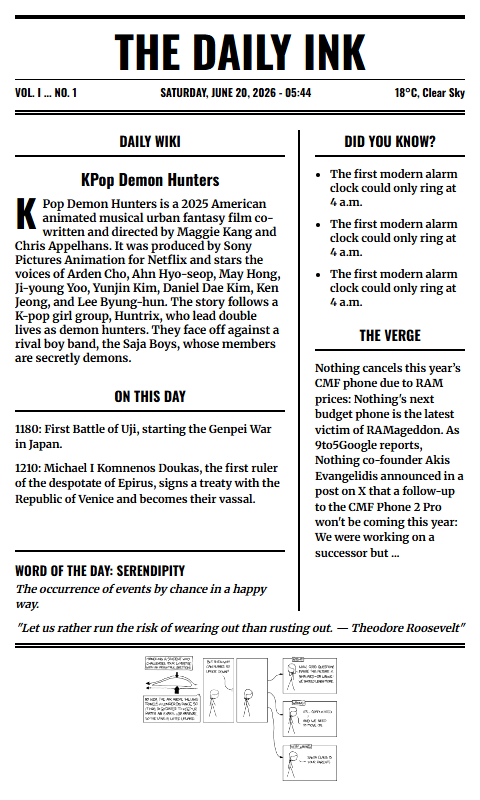
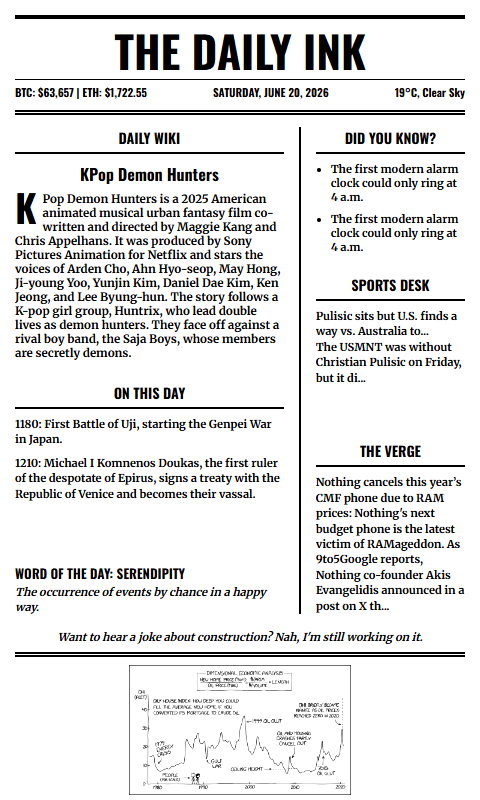
update layout and modularity

diff --git a/templates/layout.html b/templates/layout.html
@@ -3,73 +3,125 @@
 <head>
     <link href="https://fonts.googleapis.com/css2?family=Merriweather:wght@700&family=Oswald:wght@700&display=swap" rel="stylesheet">
     <style>
-        body { font-family: 'Merriweather', serif; margin: 0; padding: 0; width: 480px; height: 800px; background: white; display: flex; justify-content: center; }
-        .newspaper-wrapper { width: 450px; padding: 15px 0; box-sizing: border-box; display: flex; flex-direction: column; }
-        .header { text-align: center; border-top: 4px solid black; border-bottom: 5px double black; padding: 10px 0; margin-bottom: 15px; }
-        .title { font-family: 'Oswald', sans-serif; font-size: 44px; text-transform: uppercase; font-weight: 700; line-height: 1; }
-        .meta { font-family: 'Oswald', sans-serif; font-size: 11px; display: flex; justify-content: space-between; border-top: 1px solid black; padding-top: 4px; margin-top: 6px; }
-        .columns { display: flex; gap: 0; height: 490px; overflow: hidden; margin-bottom: 10px; }
-        .col-left { flex: 1.8; border-right: 2px solid black; display: flex; flex-direction: column; justify-content: space-between; padding-right: 13px; }
-        .col-right { flex: 1; padding-left: 15px; }
-        h2 { font-family: 'Oswald', sans-serif; font-size: 14px; border-bottom: 2px solid black; text-transform: uppercase; text-align: center; margin: 0 0 10px 0; padding-bottom: 4px; }
+        body { 
+            font-family: 'Merriweather', 'Georgia', serif; 
+            margin: 0; padding: 0; width: 480px; height: 800px; background: white; 
+            display: flex; justify-content: center; overflow: hidden; 
+        }
+        
+        .newspaper-wrapper { 
+            width: 450px; padding-top: 15px; height: 785px; 
+            display: flex; flex-direction: column; 
+        }
+
+        .middle-section { display: flex; flex-grow: 1; gap: 15px; overflow: hidden; margin-bottom: 8px; }
+        .col-left { flex: 1.8; display: flex; flex-direction: column; gap: 12px; }
+        .col-right { flex: 1; display: flex; flex-direction: column; gap: 12px; }
+        .vertical-line { width: 2px; background-color: black; flex-shrink: 0; }
+
+        /* Block Behaviors */
+        .news-block { display: flex; flex-direction: column; overflow: hidden; }
+        
+        /* OPTION 2: The Automatic Bottom Anchor */
+        /* OPTION 2: The Automatic Bottom Anchor */
+        .news-block:last-child {
+            margin-top: auto; 
+            flex-shrink: 0;
+        }
+
+        /* Text Limiters */
+        .limit-text-long {
+            display: -webkit-box;
+            -webkit-line-clamp: 14; 
+            -webkit-box-orient: vertical;
+            overflow: hidden;
+        }
+        .limit-text-short {
+            display: -webkit-box;
+            -webkit-line-clamp: 8; 
+            -webkit-box-orient: vertical;
+            overflow: hidden;
+        }
+
+        .area-header  { text-align: center; border-top: 4px solid black; border-bottom: 5px double black; padding: 10px 0; margin-bottom: 12px; flex-shrink: 0; }
+        .area-joke    { text-align: center; padding: 8px 0; font-size: 11px; font-style: italic; flex-shrink: 0; }
+        .area-comic   { border-top: 5px double black; padding-top: 8px; height: 135px; display: flex; justify-content: center; overflow: hidden; flex-shrink: 0; }
+        
+        /* Typography */
+        .title { font-family: 'Oswald', 'Impact', sans-serif; font-size: 44px; text-transform: uppercase; font-weight: 700; line-height: 1; margin-bottom: 6px; }
+        .meta { font-family: 'Oswald', 'Arial Narrow', sans-serif; font-size: 11px; display: flex; justify-content: space-between; border-top: 1px solid black; padding-top: 4px; }
+        h2 { font-family: 'Oswald', 'Impact', sans-serif; font-size: 14px; border-bottom: 2px solid black; text-transform: uppercase; text-align: center; margin: 0 0 8px 0; padding-bottom: 4px; }
         ul { padding-left: 15px; margin: 0; }
-        li { margin-bottom: 8px; font-size: 11px; font-weight: 700; font-family: 'Merriweather', serif; }
-        p { margin: 0 0 10px 0; font-family: 'Merriweather', serif; }
-        .dropcap:first-letter { float: left; font-size: 38px; font-family: 'Oswald', sans-serif; padding-right: 6px; line-height: 0.8; }
-        .comic-wrapper { border-top: 5px double black; padding-top: 8px; }
-        .comic-img { width: 100%; height: 125px; object-fit: contain; filter: grayscale(100%) contrast(1.2); }
-        .quote { font-size: 11px; font-style: italic; text-align: center; margin-bottom: 8px; font-family: 'Merriweather', serif; }
-        .news-block { margin-top: 15px; }
-        .news-content { font-family: 'Merriweather', serif; font-weight: 700; font-size: 11px; line-height: 1.4; margin: 0; }
+        li { margin-bottom: 8px; font-size: 11px; font-weight: 700; }
+        p { margin: 0 0 10px 0; font-size: 11px;}
+        .dropcap:first-letter { float: left; font-size: 38px; font-family: 'Oswald', 'Impact', sans-serif; padding-right: 6px; line-height: 0.8; }
+        .news-content { font-weight: 700; font-size: 11px; line-height: 1.4; margin: 0; }
+        .comic-img { max-width: 100%; height: 130px; object-fit: contain; filter: grayscale(100%) contrast(1.2); }
     </style>
 </head>
 <body>
     <div class="newspaper-wrapper">
-        <div class="header">
+        
+        <div class="area-header">
             <div class="title">The Daily Ink</div>
             <div class="meta">
-                <span>VOL. I ... NO. 1</span>
+                <span>BTC: {crypto_btc} | ETH: {crypto_eth}</span>
                 <span>{date}</span>
                 <span>{weather}</span>
             </div>
         </div>
-        <div class="columns">
+
+        <div class="middle-section">
+            
             <div class="col-left">
-                <div>
+                <div class="news-block">
                     <h2>Daily Wiki</h2>
                     <div style="font-weight:700; text-align:center; font-family:'Oswald', sans-serif; margin-bottom:6px;">{wiki_title}</div>
-                    <p class="dropcap" style="font-weight:700; font-size:11.5px;">{wiki_text}</p>
+                    <p class="dropcap limit-text-long" style="font-weight:700; font-size:11.5px;">{wiki_text}</p>
                 </div>
-                <div class="news-block" style="margin-top: 10px; margin-bottom: 10px;">
+                
+                <div class="news-block">
                     <h2>{history_title}</h2>
-                    <div class="news-content">
-                        {history_items}
-                    </div>
+                    <div class="news-content limit-text-short">{history_items}</div>
                 </div>
-                <div style="margin-top: auto; border-top: 2px solid black; padding-top: 8px;">
+
+                <div class="news-block">
                     <div style="font-family:'Oswald', sans-serif; font-size: 13px; font-weight:700; text-transform: uppercase; margin-bottom: 2px;">
                         Word of the Day: {word_name}
                     </div>
-                    <div style="font-size: 11px; font-style: italic; line-height: 1.3;">
-                        {word_def}
-                    </div>
+                    <div style="font-size: 11px; font-style: italic; line-height: 1.3;">{word_def}</div>
                 </div>
             </div>
+
+            <div class="vertical-line"></div>
+
             <div class="col-right">
-                <h2>Did You Know?</h2>
-                <ul>{facts_list}</ul>
+                <div class="news-block">
+                    <h2>Did You Know?</h2>
+                    <ul>{facts_list}</ul>
+                </div>
+                
+                <div class="news-block">
+                    <h2>Sports Desk</h2>
+                    <div class="news-content limit-text-short">{sports_items}</div>
+                </div>
+
                 <div class="news-block">
                     <h2>{news_title}</h2>
-                    <div class="news-content">
-                        {news_text}
-                    </div>
+                    <div class="news-content limit-text-long">{news_text}</div>
                 </div>
             </div>
+
         </div>
-        <div class="quote">"{quote_text}"</div>
-        <div class="comic-wrapper">
+
+        <div class="area-joke">
+            <b>{joke_setup}</b> {joke_punchline}
+        </div>
+        
+        <div class="area-comic">
             <img class="comic-img" src="{comic_url}">
         </div>
+        
     </div>
 </body>
 </html>

diff --git a/generate.py b/generate.py
@@ -5,8 +5,11 @@ from html2image import Html2Image
 
 # Import modular custom sub-packages
 from modules.weather import get_weather
-from modules.news import fetch_wiki_module, fetch_verge_module, fetch_history_module
-from modules.culture import fetch_facts_module, fetch_word_module, fetch_quote_module, fetch_fitting_xkcd
+from modules.news import fetch_wiki_module, fetch_verge_module, fetch_history_module, fetch_sports_module
+from modules.culture import fetch_facts_module, fetch_word_module, fetch_fitting_xkcd, fetch_joke_module, fetch_quote_module
+from modules.finance import fetch_crypto_module
+
+
 
 load_dotenv()
 
@@ -26,21 +29,25 @@ def generate_newspaper():
     news = fetch_verge_module()
     history = fetch_history_module()
     word = fetch_word_module()
-    quote = fetch_quote_module()
     comic = fetch_fitting_xkcd()
+    crypto = fetch_crypto_module()
+    sports = fetch_sports_module()
+    joke = fetch_joke_module()
+    quote_text = fetch_quote_module()
     
     # Process string interpolation elements
     facts_html = "".join([f"<li>{f}</li>" for f in facts])
     history_html = "".join([f'<div style="margin-bottom:8px;"><b>{item["year"]}</b>: {item["text"]}</div>' for item in history['items']])
-    current_date = datetime.now().strftime("%A, %B %d, %Y - %H:%M").upper()
+    sports_html = "".join([f'<div style="margin-bottom:6px;"><b>{s["title"]}</b><br/><span style="font-weight:normal;">{s["summary"]}</span></div>' for s in sports])
+    
+    current_date = datetime.now().strftime("%A, %B %d, %Y").upper()
 
     print("Loading layout structures...")
     template_path = os.path.join(os.path.dirname(__file__), "templates", "layout.html")
     with open(template_path, "r", encoding="utf-8") as template_file:
         html_template = template_file.read()
 
-    
-    # Safely inject structured data variables using strict string replacement
+    # Safely inject structured data variables
     replacements = {
         "{date}": current_date,
         "{weather}": weather_data,
@@ -53,8 +60,13 @@ def generate_newspaper():
         "{facts_list}": facts_html,
         "{news_title}": news['title'],
         "{news_text}": news['text'],
-        "{quote_text}": quote,
-        "{comic_url}": comic['img_url']
+        "{comic_url}": comic['img_url'],
+        "{crypto_btc}": crypto['btc'],
+        "{crypto_eth}": crypto['eth'],
+        "{sports_items}": sports_html,
+        "{joke_setup}": joke['setup'],
+        "{joke_punchline}": joke['punchline'],
+        "{quote_text}": quote_text
     }
 
     rendered_html = html_template
@@ -65,15 +77,15 @@ def generate_newspaper():
     with open("index.html", "w", encoding="utf-8") as f:
         f.write(rendered_html)
 
-    # Browser Execution Path Optimization Strategy
+    # Browser Execution
     hti = initialize_renderer()
     current_dir = os.path.abspath(os.path.dirname(__file__))
     file_url = f"file:///{os.path.join(current_dir, 'index.html').replace(chr(92), '/')}"
 
-    print("Rendering newspaper snapshot output image via headless engine...")
+    print("Rendering newspaper snapshot...")
     output_filename = 'newspaper.png'
     hti.screenshot(url=file_url, save_as=output_filename, size=(480, 800))
-    print(f"Success! System generated output saved at: {output_filename}")
+    print(f"Success! Output saved at: {output_filename}")
 
 if __name__ == '__main__':
     generate_newspaper()

diff --git a/modules/news.py b/modules/news.py
@@ -27,7 +27,7 @@ def fetch_verge_module():
         if feed.entries:
             entry = feed.entries[0]
             clean_text = re.sub('<[^<]+?>', '', entry.get('summary', ''))
-            return {"title": "The Verge", "text": f"{entry.title}: {clean_text[:250]}..."}
+            return {"title": "The Verge", "text": f"{entry.title}: {clean_text[:150]}..."}
     except Exception as e:
         print(f"Verge RSS Error: {e}")
     return {"title": "The Verge", "text": "Tech news currently unavailable."}
@@ -41,3 +41,19 @@ def fetch_history_module():
     except Exception as e:
         print(f"History API Error: {e}")
         return {"title": "On This Day", "items": []}
+
+def fetch_sports_module():
+    url = "https://www.espn.com/espn/rss/news"
+    try:
+        feed = feedparser.parse(url)
+        if feed.entries:
+            items = []
+            # FIX: Changed from [:2] to [:1] to only grab the single top headline
+            for entry in feed.entries[:1]:
+                clean_text = re.sub('<[^<]+?>', '', entry.get('summary', ''))
+                # FIX: Shortened the summary from 90 characters down to 60
+                items.append({"title": entry.title, "summary": f"{clean_text[:60]}..."})
+            return items
+    except Exception as e:
+        print(f"Sports RSS Error: {e}")
+    return [{"title": "Scores unavailable.", "summary": ""}]

diff --git a/modules/finance.py b/modules/finance.py
@@ -1,0 +1,14 @@
+import requests
+
+def fetch_crypto_module():
+    url = "https://api.coingecko.com/api/v3/simple/price?ids=bitcoin,ethereum&vs_currencies=usd"
+    try:
+        response = requests.get(url, timeout=5)
+        if response.status_code == 200:
+            data = response.json()
+            btc = data.get('bitcoin', {}).get('usd', 'N/A')
+            eth = data.get('ethereum', {}).get('usd', 'N/A')
+            return {"btc": f"${btc:,}", "eth": f"${eth:,}"}
+    except Exception as e:
+        print(f"Crypto API Error: {e}")
+    return {"btc": "N/A", "eth": "N/A"}

diff --git a/modules/culture.py b/modules/culture.py
@@ -6,7 +6,7 @@ from io import BytesIO
 def fetch_facts_module():
     url = "https://uselessfacts.jsph.pl/api/v2/facts/random?language=en"
     facts = []
-    for _ in range(3):
+    for _ in range(2):
         try:
             response = requests.get(url, timeout=3)
             # Catch Redis snapshot failures or invalid responses gracefully
@@ -55,3 +55,14 @@ def fetch_fitting_xkcd():
         except Exception:
             continue
     return {"title": "Wisdom", "img_url": "https://imgs.xkcd.com/comics/wisdom_of_the_ancients.png"}
+
+def fetch_joke_module():
+    url = "https://official-joke-api.appspot.com/random_joke"
+    try:
+        response = requests.get(url, timeout=5)
+        if response.status_code == 200:
+            data = response.json()
+            return {"setup": data['setup'], "punchline": data['punchline']}
+    except Exception as e:
+        print(f"Joke API Error: {e}")
+    return {"setup": "Why do programmers prefer dark mode?", "punchline": "Because light attracts bugs."}

diff --git a/README.md b/README.md
@@ -94,6 +94,49 @@ python generate.py
 ```
 
 ---
+## Customizing the Layout & Adding Modules
+
+The Daily Ink uses a highly fluid Flexbox layout. You don't need to touch complex CSS Grid matrices to redesign your paper. **Python supplies the data, and HTML organizes the space.**
+
+### 1. Moving Existing Modules
+To rearrange the newspaper, open `templates/layout.html`. 
+The middle of the paper is divided into two buckets: `<div class="col-left">` and `<div class="col-right">`. 
+
+Every piece of news is wrapped in a `<div class="news-block">`. To move a module (e.g., moving Sports from the right to the left), simply cut the entire `<div class="news-block">...</div>` and paste it into the other column. 
+*Note: The layout is smart. Whichever `news-block` is placed at the very bottom of a column will automatically anchor itself to the bottom of the page.*
+
+### 2. Adding a Completely New Module
+Adding your own custom data feed takes three quick steps:
+
+**Step 1: Get the data (Python)**
+Create a new function (e.g., in `modules/culture.py`) to fetch your data and return it as a formatted string. 
+In `generate.py`, call your function:
+```python
+quote_text = fetch_quote_module()
+```
+
+**Step 2: Map the variables (Python)**
+In `generate.py`, locate the `replacements` dictionary and map your new data to an HTML tag:
+```python
+replacements = {
+    # ... existing variables ...
+    "{quote_text}": quote_text 
+}
+```
+
+**Step 3: Drop it into the layout (HTML)**
+Open `templates/layout.html` and paste a new block wherever you want it to appear (in `col-left` or `col-right`):
+```html
+<div class="news-block">
+    <h2>Quote of the Day</h2>
+    <div class="news-content">
+        {quote_text}
+    </div>
+</div>
+```
+
+### 3. Handling Long Text Walls
+If an API gives you a massive wall of text that pushes other modules off the e-ink screen, use the built-in text limiters. Add `limit-text-short` (max 8 lines) or `limit-text-long` (max 14 lines) to the class of your text div. It will automatically truncate the text with an elegant `...` if it overflows.
 
 ##  Project Structure
 